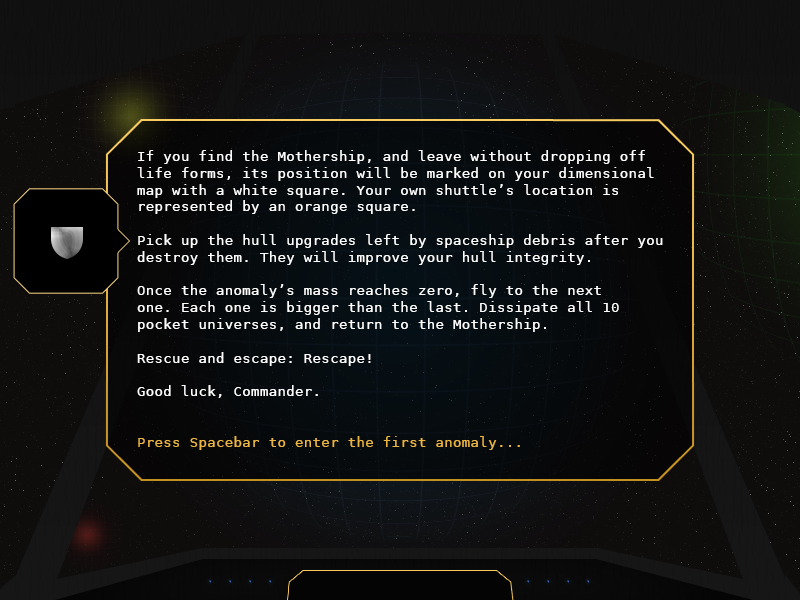
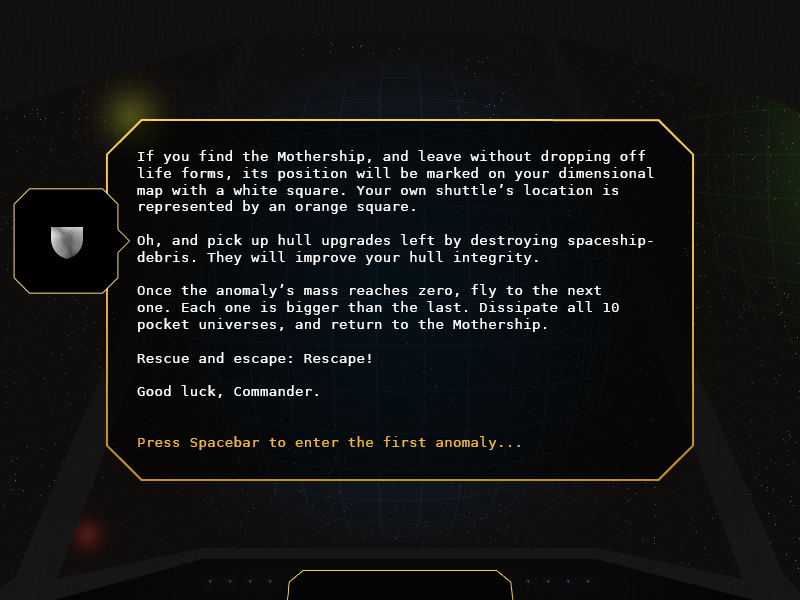
Lowers chance to drop power-ups.
Lowers the chance that destroying spaceship debris will drop a power-up
from 100% to 20%.

Also updates the wording on the final story screen.

Changed region(s): [[0.1562, 0.39, 0.8438, 0.45]]

diff --git a/Rescape.py b/Rescape.py
@@ -1,6 +1,6 @@
 #
 # Pocket Universe: Rescape
-# v1.57
+# v1.58
 # A game written in Python for CodeSkulptor.
 # By Chloe Unrau 2013
 # _____________________________________________________________________________
@@ -1354,17 +1354,18 @@ def main_handler():
                         False, 
                         explosion_sound)
                     game.add_explosion(explosion)
-                    # create a hull-integrity power-up
-                    powerup = Sprite(
-                        'powerup', 
-                        powerup_image, 
-                        powerup_info, 
-                        rock.get_pos(), 
-                        rock.get_vel(), 
-                        rock.get_angle(), 
-                        rock.get_angle_vel(), 
-                        False)
-                    game.add_rock(powerup)
+                    # chance to drop a hull-integrity power-up
+                    if random.randrange(0, 6) == 5:
+                        powerup = Sprite(
+                            'powerup', 
+                            powerup_image, 
+                            powerup_info, 
+                            rock.get_pos(), 
+                            rock.get_vel(), 
+                            rock.get_angle(), 
+                            rock.get_angle_vel(), 
+                            False)
+                        game.add_rock(powerup)
                 elif rock.kind == 'lifeform':
                     # create a lifeform explosion animation
                     explosion = Sprite(
